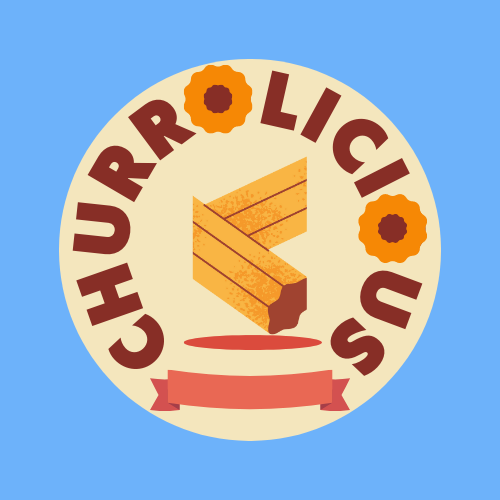
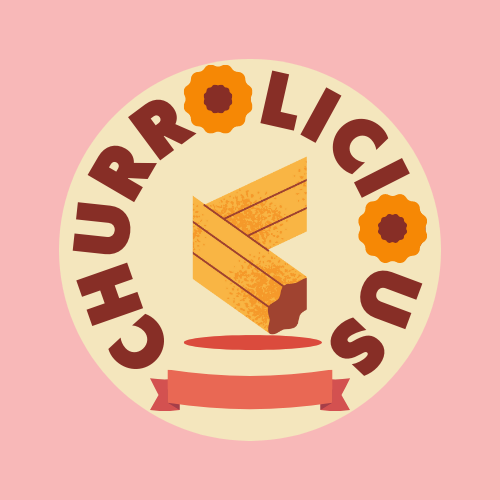
New colors

diff --git a/src/nosotros.css b/src/nosotros.css
@@ -1,8 +1,8 @@
 :root{
-    --azulC:#6DB2FA;
-    --azul:#2991FD;
+    --rojoclaro:#F8B8B8;
+    --vinotinto:#BD2222;
+    --vino:#800000;
     --blanco:#FFFFFF;
-
 }
 html {
     font-size: 62.5%;
@@ -11,7 +11,7 @@ html {
 
 }
 .boxcontainer{
-    background-image: linear-gradient(to top, var(--azulC) 0%, var(--blanco) 60%);
+    background-image: linear-gradient(to top, var(--blanco) 0%, var(--rojoclaro) 60%);
 }
 .bgimgnos{
     background-image: url(../public/chocolatedchurros.jpg);
@@ -30,9 +30,9 @@ html {
     margin-left: 200px;
     margin-right: 200px;
     background-color: #FFFFFF;
-    -webkit-box-shadow: 10px 10px 25px -7px rgba(9,40,168,1);
-    -moz-box-shadow: 10px 10px 25px -7px rgba(9,40,168,1);
-    box-shadow: 10px 10px 25px -7px rgba(9,40,168,1);
+    -webkit-box-shadow: 10px 10px 12px -3px rgba(235,158,158,1);
+    -moz-box-shadow: 10px 10px 12px -3px rgba(235,158,158,1);
+    box-shadow: 10px 10px 12px -3px rgba(235,158,158,1);
     border-radius: 1rem;
  
 }

diff --git a/src/inicio.css b/src/inicio.css
@@ -1,6 +1,7 @@
 :root{
-    --azulC:#6DB2FA;
-    --azul:#2991FD;
+    --rojoclaro:#F8B8B8;
+    --vinotinto:#BD2222;
+    --vino:#800000;
     --blanco:#FFFFFF;
 
 }
@@ -52,9 +53,9 @@ html {
 
 }
 .shadowback{
-    -webkit-box-shadow: 10px 10px 25px -7px rgba(9,40,168,1);
-    -moz-box-shadow: 10px 10px 25px -7px rgba(9,40,168,1);
-    box-shadow: 10px 10px 25px -7px rgba(9,40,168,1);
+    -webkit-box-shadow: 10px 10px 12px -3px rgba(235,158,158,1);
+    -moz-box-shadow: 10px 10px 12px -3px rgba(235,158,158,1);
+    box-shadow: 10px 10px 12px -3px rgba(235,158,158,1);
     background-color: var(--blanco);
     padding: 2rem;
     border-radius: 1rem;
@@ -63,7 +64,7 @@ html {
     
 }
 .contenedor{
-    background-image: linear-gradient(to top, var(--azulC) 0%, var(--blanco) 60%);
+    background-image: linear-gradient(to top, var(--blanco) 0%, var(--rojoclaro) 60%);
 }
 .desciwsp{
     font-weight: bold;

diff --git a/src/App.css b/src/App.css
@@ -1,6 +1,7 @@
 :root{
-    --azulC:#6DB2FA;
-    --azul:#2991FD;
+    --rojoclaro:#F8B8B8;
+    --vinotinto:#BD2222;
+    --vino:#800000;
     --blanco:#FFFFFF;
 
 }
@@ -12,7 +13,7 @@ html {
 .nav-principal{
     display: flex;
     flex-direction: column;
-    background-color: #6DB2FA;
+    background-color: var(--vinotinto);
     
 }
 @media (min-width: 768px) {
@@ -35,17 +36,17 @@ html {
     
 }
 .nav-principal a:hover{
-    background-color: var(--azul);
+    background-color: var(--vino);
     font-weight: bolder;
     border-radius: 0.5rem;
 }
 
 .App{
-    background-image: linear-gradient(to top, var(--azulC) 0%, var(--blanco) 60%);
+    background-image: linear-gradient(to top, var(--blanco) 0%, var(--rojoclaro) 60%);
 }
 .logonav{
     height: auto;
-    background-color: var(--azulC);
+    background-color: var(--rojoclaro);
     
 }
 .topbar{

diff --git a/src/productos.css b/src/productos.css
@@ -1,3 +1,10 @@
+:root{
+    --rojoclaro:#F8B8B8;
+    --vinotinto:#BD2222;
+    --vino:#800000;
+    --blanco:#FFFFFF;
+
+}
 html {
     font-size: 62.5%;
     box-sizing: border-box;
@@ -15,14 +22,14 @@ html {
     
     display: grid;
     grid-template-columns: repeat(3, 1fr);
-    background-color: aliceblue;
+    background-color: var(--blanco);
     font-size: 1.5rem;
     padding: 0%;
     margin-left: 200px;
     margin-right: 200px;
-    -webkit-box-shadow: 10px 10px 25px -7px rgba(9,40,168,1);
-    -moz-box-shadow: 10px 10px 25px -7px rgba(9,40,168,1);
-    box-shadow: 10px 10px 25px -7px rgba(9,40,168,1);
+    -webkit-box-shadow: 10px 10px 12px -3px rgba(235,158,158,1);
+    -moz-box-shadow: 10px 10px 12px -3px rgba(235,158,158,1);
+    box-shadow: 10px 10px 12px -3px rgba(235,158,158,1);
     border-radius: 1rem;
     
 }
